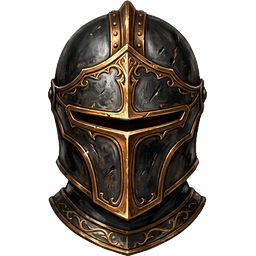
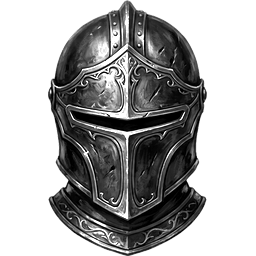
Slots de equipamento: icones em cinza, menores e sem legenda
Ajuste em cima do commit anterior, a pedido:

- Os sete PNGs de slot passam a ser cinza (dessaturados a partir da mesma
  arte, ~30% mais claros para nao sumirem no fundo escuro do socket).
- Icone menor: 56% do socket no lobby (era 68%) e 44px na oficina/overlay
  (era 52px), com opacidade .72. A arte do item equipado continua em 84%
  com opacidade cheia, entao "vazio" e "equipado" seguem distintos.
- Legendas dos sockets removidas: `renderEquipmentSlotContent` nao recebe
  mais o rotulo e nao imprime `.equipment-slot__label`; o CSS morto saiu do
  lobby-reference.css (bloco do lobby) e do style.css (regra base + as tres
  variacoes da oficina). O nome do slot continua no aria-label do socket
  ("Capacete: Vazio"), que e o que leitores de tela leem.

Testes atualizados: o markup nao traz mais o label, os icones continuam
exigidos para os 7 slots (com os arquivos conferidos em public/), e o teste
da oficina passou a validar os aria-labels dos sete sockets.

Suite 137 arquivos / 754 testes, tsc e build limpos; conferido no browser
(lobby vazio, oficina e com conjunto equipado).

Changed region(s): [[0.1875, 0.0, 0.8125, 1.0], [0.6562, 0.0938, 0.7188, 0.1562]]

diff --git a/src/styles/lobby-reference.css b/src/styles/lobby-reference.css
@@ -496,8 +496,7 @@ body #lobby-screen .arena-equip-grid .equipment-slot.is-equipped {
 }
 
 /* The item sits above both glow layers. */
-#lobby-screen .arena-equip-grid .equipment-slot__art,
-#lobby-screen .arena-equip-grid .equipment-slot__label { z-index: 1; }
+#lobby-screen .arena-equip-grid .equipment-slot__art { z-index: 1; }
 
 /*
  * With the plate gone the artwork uses the whole socket, exactly like a bag
@@ -538,68 +537,31 @@ body #lobby-screen .arena-equip-grid .equipment-slot__art .inventory-item-art {
 }
 
 /*
- * Placeholder of an empty socket: the painted piece that belongs there, dimmed
- * so an equipped item (full opacity, 84%) reads as the stronger state at a
- * glance. Sizing is slightly smaller than the equipped art for the same
- * reason; the frame, not the icon, is the point of the empty cell.
+ * Placeholder of an empty socket: the gray piece that belongs there, smaller
+ * and dimmer than the item art a filled socket shows (84%, full opacity), so
+ * the two states stay apart at a glance. The frame, not the icon, owns the
+ * cell; the icons ship already desaturated, no filter needed here.
  */
 #lobby-screen .arena-equip-grid .equipment-slot__icon,
 body #lobby-screen .arena-equip-grid .equipment-slot__icon {
   box-sizing: border-box;
-  width: 68% !important;
-  height: 68% !important;
-  max-width: 68%;
-  max-height: 68%;
+  width: 56% !important;
+  height: 56% !important;
+  max-width: 56%;
+  max-height: 56%;
   margin: 0;
   object-fit: contain;
   object-position: center;
-  opacity: .62;
-  filter: saturate(.9) drop-shadow(0 2px 6px rgba(0, 0, 0, .75));
+  opacity: .72;
+  filter: drop-shadow(0 2px 6px rgba(0, 0, 0, .75));
   transition: opacity 160ms ease;
 }
 #lobby-screen .arena-equip-grid .equipment-slot:hover .equipment-slot__icon {
-  opacity: .88;
+  opacity: .95;
 }
 
 @media (prefers-reduced-motion: reduce) {
   #lobby-screen .arena-equip-grid .equipment-slot.is-equipped::after { animation: none; }
-}
-
-/*
- * The caption used to sit in the plate's gold cartouche and was therefore
- * dark and tiny. It now runs along the foot of the socket, horizontally
- * centred, in the panel's serif face.
- */
-#lobby-screen .arena-equip-grid .equipment-slot__label {
-  position: absolute;
-  right: 2px;
-  bottom: 3px;
-  left: 2px;
-  display: grid;
-  place-items: center;
-  overflow: hidden;
-  padding: 0 2px;
-  color: var(--gold);
-  font: 600 clamp(8px, .66vw, 10px) / 1.1 Georgia, 'Times New Roman', serif;
-  letter-spacing: .07em;
-  text-align: center;
-  text-shadow: 0 1px 4px #000, 0 0 8px rgba(0, 0, 0, .9);
-  text-transform: uppercase;
-  white-space: nowrap;
-}
-/* An equipped piece fills the socket, so its caption would sit on the art. */
-/*
- * The caption stays visible when equipped, sitting over the foot of the
- * artwork with a gradient scrim for contrast. The old gold drop-shadow was
- * removed: it fought with the rarity light.
- */
-/*
- * The caption only labels an empty socket. Once a piece is equipped the icon
- * identifies it, so the name is dropped and the artwork gets the full cell;
- * the label text remains available through the button's aria-label.
- */
-#lobby-screen .arena-equip-grid .equipment-slot.is-equipped .equipment-slot__label {
-  display: none;
 }
 
 /* --- status sheet --- */

diff --git a/src/style.css b/src/style.css
@@ -1717,10 +1717,10 @@ button:focus-visible,
  */
 .equipment-slot .equipment-slot__art { display: grid; place-items: center; }
 .equipment-slot .equipment-slot__icon {
-  width: 52px;
-  height: 52px;
+  width: 44px;
+  height: 44px;
   object-fit: contain;
-  opacity: .5;
+  opacity: .72;
 }
 .equipment-slot small,
 .equipment-slot strong { display: block; }
@@ -3622,18 +3622,6 @@ body #lobby-screen .equipment-slot.is-equipped,
 .equipment-slot__art .is-equipped-art { width: 88%; height: 88%; object-fit: contain; filter: drop-shadow(0 3px 8px rgba(0, 0, 0, 0.42)) drop-shadow(0 0 6px rgba(225, 189, 104, 0.14)); }
 .equipment-slot__art .inventory-item-glyph { display: grid; place-items: center; }
 .equipment-slot__art svg { width: 64%; height: 64%; fill: none; stroke: currentColor; stroke-width: 1.45; stroke-linecap: square; stroke-linejoin: miter; }
-.equipment-slot__label {
-  width: calc(100% + 12px);
-  margin-bottom: -3px;
-  padding: 4px 8px 3px;
-  border-top: 1px solid rgba(225, 189, 104, 0.14);
-  color: rgba(217, 219, 206, 0.55);
-  background: linear-gradient(90deg, rgba(4, 7, 10, 0.72), rgba(40, 34, 25, 0.58), rgba(4, 7, 10, 0.72));
-  font: 700 9px/1.1 Georgia, serif;
-  letter-spacing: .07em;
-  text-shadow: 0 1px #000;
-  text-transform: uppercase;
-}
 
 /* ---------- Oficina dedicada: terminal industrial de Cinzafogo ---------- */
 .blacksmith-screen {
@@ -3721,7 +3709,6 @@ body #lobby-screen .equipment-slot.is-equipped,
   box-shadow: none;
 }
 .blacksmith-screen .equipment-slot.is-equipped { border-color: rgba(255, 184, 0, 0.84); background: #171a12; }
-.blacksmith-screen .equipment-slot__label { border-radius: 0; background: #0b0c0a; font-family: Consolas, 'Courier New', monospace; }
 .workshop-recipes { display: grid; align-content: start; gap: 12px; overflow: auto; }
 .workshop-recipes > header { display: grid; gap: 5px; }
 .workshop-recipes.is-locked { opacity: .68; }
@@ -3756,7 +3743,6 @@ body #lobby-screen .equipment-slot.is-equipped,
 .blacksmith-screen .workshop-equipment { grid-template-rows: auto auto minmax(0, 1fr) auto; gap: 7px; }
 .blacksmith-screen .equipment-grid { grid-template-columns: repeat(3, minmax(0, 1fr)); gap: 5px; }
 .blacksmith-screen .equipment-slot { min-height: 62px; padding: 3px; }
-.blacksmith-screen .equipment-slot__label { padding: 3px 4px 2px; font-size: 7px; }
 .blacksmith-screen .equipment-slot__art .is-equipped-art { width: 72%; height: 72%; }
 .workshop-backpack { display: grid; gap: 7px; min-width: 0; padding-top: 8px; border-top: 1px solid rgba(255, 184, 0, 0.32); }
 .workshop-backpack > header { display: flex; align-items: end; justify-content: space-between; gap: 8px; }
@@ -3951,7 +3937,6 @@ body #lobby-screen .equipment-slot.is-equipped,
   box-shadow: inset 0 1px rgba(255, 237, 187, .13), 0 0 14px rgba(213, 157, 57, .09);
 }
 .blacksmith-screen .equipment-slot__art svg { width: 55%; height: 55%; stroke: #aebbb7; }
-.blacksmith-screen .equipment-slot__label { width: calc(100% + 10px); border-radius: 0 0 7px 7px; }
 .blacksmith-screen .blacksmith-recipe {
   grid-template-columns: 68px minmax(0, 1fr) 88px;
   gap: 11px;

diff --git a/src/ui/CraftRewardsPresentation.test.ts b/src/ui/CraftRewardsPresentation.test.ts
@@ -20,12 +20,13 @@ describe('craft reward presentation', () => {
 
     for (const slot of slots) {
       const host = document.createElement('div');
-      host.innerHTML = renderEquipmentSlotContent(slot, EQUIPMENT_LABELS[slot], null);
+      host.innerHTML = renderEquipmentSlotContent(slot, null);
       const icon = host.querySelector<HTMLImageElement>('.equipment-slot__icon');
 
       expect(icon, `${slot} sem icone de slot vazio`).not.toBeNull();
       expect(icon?.getAttribute('src')).toBe(equipmentSlotIconSource(slot));
-      expect(host.querySelector('.equipment-slot__label')?.textContent).toBe(EQUIPMENT_LABELS[slot]);
+      // The socket name is gone from the cell: the picture answers for it.
+      expect(host.querySelector('.equipment-slot__label')).toBeNull();
       // The slot icon is decoration; the socket itself carries the aria-label.
       expect(icon?.getAttribute('alt')).toBe('');
       expect(icon?.getAttribute('aria-hidden')).toBe('true');
@@ -43,13 +44,13 @@ describe('craft reward presentation', () => {
   it('replaces the placeholder with the equipped art once an item fills the socket', () => {
     const equipado = getInventoryItem('common-forged-helmet')!;
     const comItem = document.createElement('div');
-    comItem.innerHTML = renderEquipmentSlotContent('helmet', EQUIPMENT_LABELS.helmet, equipado);
+    comItem.innerHTML = renderEquipmentSlotContent('helmet', equipado);
 
     expect(comItem.querySelector('.equipment-slot__icon')).toBeNull();
     // Armor pieces use the art cut out for the body; the equipped icon wins.
     const esperado = equipado.equippedIconSrc ?? equipado.iconSrc;
     expect(comItem.querySelector('img')?.getAttribute('src')).toBe(esperado);
-    expect(comItem.querySelector('.equipment-slot__label')?.textContent).toBe(EQUIPMENT_LABELS.helmet);
+    expect(comItem.querySelector('.equipment-slot__label')).toBeNull();
   });
 
   it('renders the real craft artwork and quantity for backpack surfaces', () => {

diff --git a/src/ui/CraftRewardsPresentation.ts b/src/ui/CraftRewardsPresentation.ts
@@ -66,15 +66,20 @@ export function itemTooltipDataAttributes(
   return `data-item-tooltip-id="${item.id}" data-item-tooltip-quantity="${Math.max(1, Math.floor(quantity))}"`;
 }
 
-/** Keeps equipment cards visual: equipped art in the center and one engraved slot label. */
+/**
+ * Keeps equipment cards visual: the centered art only.
+ *
+ * The socket used to print its name (CAPACETE, PEITORAL...) under the art.
+ * Every socket now carries a picture - the painted placeholder when empty, the
+ * item art when equipped - so the caption was dropped and the cell stays clean.
+ * The name still reaches assistive tech through the socket's aria-label.
+ */
 export function renderEquipmentSlotContent(
   slot: UiEquipmentSlot,
-  label: string,
   item: InventoryItemDefinition | null
 ): string {
   return `
-    <span class="equipment-slot__art"${item ? '' : ' aria-hidden="true"'}>${item ? equippedItemArt(item) : equipmentSlotIcon(slot)}</span>
-    <span class="equipment-slot__label">${label}</span>`;
+    <span class="equipment-slot__art"${item ? '' : ' aria-hidden="true"'}>${item ? equippedItemArt(item) : equipmentSlotIcon(slot)}</span>`;
 }
 
 /** True when the inspector can present the item, i.e. craft materials and equipment. */

diff --git a/src/styles/lobby-reference.test.ts b/src/styles/lobby-reference.test.ts
@@ -86,14 +86,12 @@ describe('arena lobby composition', () => {
     expect(lobbyStyles).toMatch(
       /\.equipment-slot\.is-equipped::after \{[\s\S]*?transparent 215deg[\s\S]*?animation: arena-rarity-sweep/
     );
-    // Captions sit centred along the foot of the socket, in the serif face,
-    // and stay visible once a piece is equipped.
+    // The socket caption is gone: picture only, name in the aria-label.
+    expect(lobbyStyles).not.toContain('.equipment-slot__label');
+    // An empty socket shows the gray placeholder, smaller than the item art
+    // that replaces it once a piece is equipped.
     expect(lobbyStyles).toMatch(
-      /\.equipment-slot__label \{[\s\S]*?bottom: 3px;[\s\S]*?place-items: center;[\s\S]*?Georgia/
-    );
-    // An equipped socket drops its caption so the artwork owns the cell.
-    expect(lobbyStyles).toMatch(
-      /\.equipment-slot\.is-equipped \.equipment-slot__label \{[^}]*display: none/
+      /#lobby-screen \.arena-equip-grid \.equipment-slot__icon,[\s\S]*?width: 56% !important;/
     );
   });
 

diff --git a/src/ui/LobbyScreen.ts b/src/ui/LobbyScreen.ts
@@ -543,10 +543,10 @@ export class LobbyScreen {
     const view = buildRpgUiViewModel(this.profile, inventory);
     const equipmentMarkup = view.equipment.map(({ slot, label, item }) => item
       ? `<button class="equipment-slot is-equipped" type="button" data-lobby-equipped-slot="${slot}" data-rarity="${item.rarity ?? 'common'}" aria-label="${label}: ${item.label}. Abrir ações do item.">
-          ${renderEquipmentSlotContent(slot, label, item)}
+          ${renderEquipmentSlotContent(slot, item)}
         </button>`
       : `<div class="equipment-slot" data-equipment-slot="${slot}" aria-label="${label}: Vazio">
-          ${renderEquipmentSlotContent(slot, label, null)}
+          ${renderEquipmentSlotContent(slot, null)}
         </div>`).join('');
     document.getElementById('lobby-equipment-slots')!.innerHTML = equipmentMarkup;
     document.getElementById('lobby-current-status')!.innerHTML = renderLobbyCurrentStatus(view.currentStatus);

diff --git a/src/ui/ItemTooltip.test.ts b/src/ui/ItemTooltip.test.ts
@@ -130,15 +130,13 @@ describe('item tooltip', () => {
   });
 
   it('uses one large equipment card composition without a duplicated item label', () => {
-    const markup = renderEquipmentSlotContent(
-      'primaryWeapon',
-      'Arma primária',
-      getInventoryItem('starter-sword')!
-    );
+    const markup = renderEquipmentSlotContent('primaryWeapon', getInventoryItem('starter-sword')!);
     const host = document.createElement('div');
     host.innerHTML = markup;
 
-    expect(host.querySelector('.equipment-slot__label')?.textContent).toBe('Arma primária');
+    // The socket shows the art alone; its name lives in the aria-label the
+    // surfaces build around this markup.
+    expect(host.querySelector('.equipment-slot__label')).toBeNull();
     expect(host.querySelector('img')?.getAttribute('src')).toBe('/items/equipment/equipado/sword.webp');
     expect(host.querySelector('strong')).toBeNull();
   });

diff --git a/src/ui/BlacksmithScreen.test.ts b/src/ui/BlacksmithScreen.test.ts
@@ -32,7 +32,12 @@ describe('BlacksmithScreen', () => {
 
     expect(host.querySelector('[data-blacksmith-screen]')).not.toBeNull();
     expect(host.querySelector('[data-workshop-recipes]')?.classList.contains('is-locked')).toBe(true);
-    expect(host.querySelector('[data-workshop-equipment]')?.textContent).toContain('Primária');
+    // The socket shows the picture only; the slot name reaches assistive tech
+    // through the aria-label.
+    const sockets = [...host.querySelectorAll<HTMLElement>('[data-workshop-equipment] [data-equipment-slot]')];
+    expect(sockets).toHaveLength(7);
+    expect(sockets.map((socket) => socket.getAttribute('aria-label')))
+      .toContain('Primária: Vazio');
   });
 
   it('keeps equipment, inventory and craft content in one keyboard-reachable tabbed window', () => {

diff --git a/src/ui/BlacksmithScreen.ts b/src/ui/BlacksmithScreen.ts
@@ -107,7 +107,7 @@ export class BlacksmithScreen {
     this.root.dataset.workshopPanel = this.activePanel;
     const equipment = buildRpgUiViewModel(this.profile, inventory).equipment.map(({ slot, label, item }) => `
       <div class="equipment-slot${item ? ' is-equipped' : ''}" data-equipment-slot="${slot}" aria-label="${label}: ${item?.label ?? 'Vazio'}">
-        ${renderEquipmentSlotContent(slot, label, item)}
+        ${renderEquipmentSlotContent(slot, item)}
       </div>`).join('');
     const isLicensed = hasActiveLicense(this.profile, Date.now());
     const remainingHours = isLicensed

diff --git a/src/ui/InventoryOverlay.ts b/src/ui/InventoryOverlay.ts
@@ -145,7 +145,7 @@ export class InventoryOverlay {
     const view = buildRpgUiViewModel(this.profile, this.store.snapshot());
     this.equipment.innerHTML = view.equipment.map(({ slot, label, item }) => `
       <div class="equipment-slot${item ? ' is-equipped' : ''}" data-equipment-slot="${slot}" aria-label="${label}: ${item?.label ?? 'Vazio'}">
-        ${renderEquipmentSlotContent(slot, label, item)}
+        ${renderEquipmentSlotContent(slot, item)}
       </div>`).join('');
   }
 
